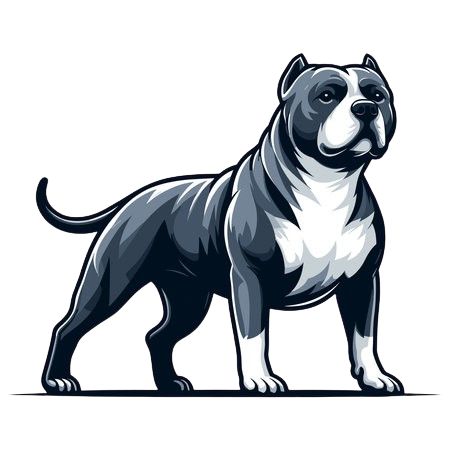
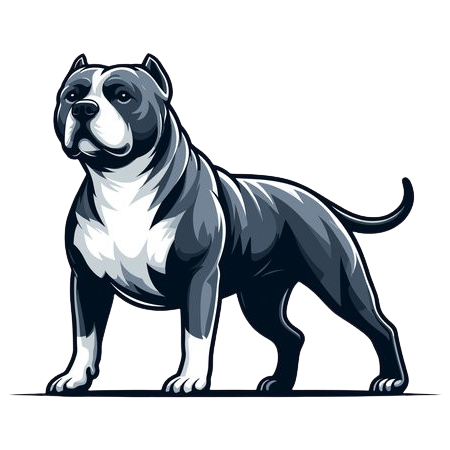
integration image sur les 3 page

diff --git a/Page2.html b/Page2.html
@@ -9,69 +9,120 @@
   </head>
   <body>
     <div>
-        <header>
-            <img src="/Image/Logo/Logo-removebg-preview.png" alt="Logo du site" class="logo" />
-                <h1>Au Cœur de l'American Bully</h1>
-            </header>
+      <header>
+        <img
+          src="/Image/Logo/Logo-removebg-preview.png"
+          alt="Logo du site"
+          class="logo"
+        />
+        <h1>Au Cœur de l'American Bully</h1>
+      </header>
     </div>
     <div>
-            <nav>
-                <ul>
-                     <button><a href="Accueil.html">Accueil</a></button>
-                     <button><a href="/Page1.html">American staff</a></button>
-                     <button><a href="/Page2.html">American bully</a></button>
-                </ul>
-            </nav>
+      <nav>
+        
+          <button><a href="Accueil.html">Accueil</a></button>
+          <button><a href="/Page1.html">American staff</a></button>
+          <button><a href="/Page2.html">American bully</a></button>
+        
+      </nav>
     </div>
 
-<div>
-
+    <div>
       <section class="Histoirebully">
-        <h2>Histoire </h2>
-        <p>Bully , ou American Bully , est né aux États-Unis dans les années 1990. Issu principalement de croisements entre l' American Pit Bull Terrier et l' American Staffordshire Terrier , il a été créé pour un physique plus massif et un tempérament doux. Son développement visait à en faire un chien de compagnie stable et affectueux, se distinguant de ses ancêtres. Aujourd'hui, diverses tailles existantes (Pocket, Standard, XL), reconnues par des clubs spécifiques, mais pas encore par tous les registres majeurs.</p>
+        <h2>Histoire</h2>
+        <p>
+          Bully , ou American Bully , est né aux États-Unis dans les années
+          1990. Issu principalement de croisements entre l' American Pit Bull
+          Terrier et l' American Staffordshire Terrier , il a été créé pour un
+          physique plus massif et un tempérament doux. Son développement visait
+          à en faire un chien de compagnie stable et affectueux, se distinguant
+          de ses ancêtres. Aujourd'hui, diverses tailles existantes (Pocket,
+          Standard, XL), reconnues par des clubs spécifiques, mais pas encore
+          par tous les registres majeurs.
+        </p>
+        <img src="/Image/Bully/Image histoire/images.jpg" alt="histoire2" class="bully1" />
       </section>
     </div>
     <div>
       <section class="standard">
-        <h2>Le Bully Standard </h2>
-        <p>Tous les Bully sont considérés comme “ Standard ” jusqu’à leur un an, âge auquel on les évalue pour les répartir ensuite entre les différentes variétés. Seuls gardent cette appellation après un an les femelles mesurant au garrot de 41 à 48 cm, et les mâles de 43 à 51 cm.</p>
+        <h2>Le Bully Standard</h2>
+        <p>
+          Tous les Bully sont considérés comme “ Standard ” jusqu’à leur un an,
+          âge auquel on les évalue pour les répartir ensuite entre les
+          différentes variétés. Seuls gardent cette appellation après un an les
+          femelles mesurant au garrot de 41 à 48 cm, et les mâles de 43 à 51 cm.
+        </p>
         <p>Poids moyen : Généralement entre 30 et 55 kg .</p>
-    </section>
-</div>
-<div>
+        <img src="/Image/Bully/standard/Capture.PNG" alt="standard1" class="standard1" />
+        <img src="/Image/Bully/standard/Capture2.PNG" alt="standard2" class="standard2" />
+      </section>
+    </div>
+    <div>
       <section class="Classic">
         <h2>Le Bully Classic</h2>
-        <p>Un peu plus léger et affiné que le Standard, le Classic a la même taille, soit de 43 à 51 cm au garrot pour les mâles, et 41 à 48 cm pour les femelles. C’est la variété qui se rapproche le plus du phénotype de l’American Staffordshire Terrier et de l’American Pit Bull Terrier.</p>
+        <p>
+          Un peu plus léger et affiné que le Standard, le Classic a la même
+          taille, soit de 43 à 51 cm au garrot pour les mâles, et 41 à 48 cm
+          pour les femelles. C’est la variété qui se rapproche le plus du
+          phénotype de l’American Staffordshire Terrier et de l’American Pit
+          Bull Terrier.
+        </p>
         <p>Poids moyen : Souvent entre 25 et 45 kg .</p>
-    </section>
-</div>
-<div>
+        <img src="/Image/Bully/classic/Capture.PNG" alt="Classic1" class="Classic1" />
+        <img src="/Image/Bully/classic/Capture2.PNG" alt="Classic2" class="Classic2" />
+      </section>
+    </div>
+    <div>
       <section class="Pocket">
         <h2>Le Bully Pocket</h2>
-        <p>La plus petite variété de Bully, concerne les femelles d’une taille au garrot comprise entre 33 et 40 cm, et les mâles entre 36 et 43 cm.</p>
         <p>
-Poids moyen : Généralement entre 15 et 30 kg .</p>
-    </section>
-</div>
-<div>
+          La plus petite variété de Bully, concerne les femelles d’une taille au
+          garrot comprise entre 33 et 40 cm, et les mâles entre 36 et 43 cm.
+        </p>
+        <p>Poids moyen : Généralement entre 15 et 30 kg .</p>
+        <img src="/Image/Bully//Pocket/Capture.PNG" alt="Pocket1" class="Pocket1" />
+        <img src="/Image/Bully/Pocket/Capture2.PNG" alt="Pocket2" class="Pocket2" />
+      </section>
+    </div>
+    <div>
       <section class="XL">
         <h2>Le Bully XL</h2>
-        <p>La plus grande variété reconnue d’American Bully comprend des femelles mesurant entre 48 et 54 cm et des mâles de 51 à 57 cm.</p>
-        <p>Poids moyen : Fréquemment entre 45 et 70 kg , voire plus pour les mâles les plus imposants.</p>
-    </section>
-</div>
-<div>
+        <p>
+          La plus grande variété reconnue d’American Bully comprend des femelles
+          mesurant entre 48 et 54 cm et des mâles de 51 à 57 cm.
+        </p>
+        <p>
+          Poids moyen : Fréquemment entre 45 et 70 kg , voire plus pour les
+          mâles les plus imposants.
+        </p>
+        <img src="/Image/Bully/XL/Capture.PNG" alt="XL1" class="XL1" />
+        <img src="/Image/Bully/XL/Capture2.PNG" alt="XL2" class="XL2" />
+      </section>
+    </div>
+    <div>
       <section class="XLLetPocket">
         <h2>Les variétés non officielles de Bully</h2>
-        <p>En plus des 4 variétés déclarées de la race, il existe des chiens au volume réduit appelé “ Micro Bully ”, ainsi que des plus grands, les “ Bully XXL ”, et même un type “ Extrême ”. Aucune organisation canine ne les reconnaît, considérant qu’il y a eu suffisamment de mutations génétiques et d’exagérations des traits morphologiques sur cette race.</p>
-        <p>Poids moyen : Très variable, les Micro Bully sont généralement en dessous de 15 kg , tandis que les Bully XXL peuvent dépasser les 70 kg .</p>
-    </section>
-</div>
-<div>
-    <footer>
-      <p>&copy; 2023 Mon Site Web. Tous droits réservés.</p>
-    </footer>
-</div>
-</body>
+        <p>
+          En plus des 4 variétés déclarées de la race, il existe des chiens au
+          volume réduit appelé “ Micro Bully ”, ainsi que des plus grands, les “
+          Bully XXL ”, et même un type “ Extrême ”. Aucune organisation canine
+          ne les reconnaît, considérant qu’il y a eu suffisamment de mutations
+          génétiques et d’exagérations des traits morphologiques sur cette race.
+        </p>
+        <p>
+          Poids moyen : Très variable, les Micro Bully sont généralement en
+          dessous de 15 kg , tandis que les Bully XXL peuvent dépasser les 70 kg
+          .
+        </p>
+        <img src="/Image/Bully/Micro/1733138711482.jpg" alt="mix1" class="mix1" />
+        <img src="/Image/Bully/xxl/Capture.PNG" alt="mix2" class="mix2" />
+      </section>
+    </div>
+    <div>
+      <footer>
+        <p>&copy; 2023 Mon Site Web. Tous droits réservés.</p>
+      </footer>
+    </div>
+  </body>
 </html>
-

diff --git a/Page1.html b/Page1.html
@@ -16,11 +16,11 @@
            </div>
     <div>
                 <nav>
-                <ul>
+               
                      <button><a href="Accueil.html">Accueil</a></button>
                      <button><a href="/Page1.html">American staff</a></button>
                      <button><a href="/Page2.html">American bully</a></button>
-                </ul>
+                
             </nav>
     </div>
 
@@ -35,6 +35,7 @@ Lorsque ces chiens sont arrivés aux États-Unis avec les immigrants, les éleve
 En 1936, l'American Kennel Club (AKC) a reconnu la race sous le nom de "Staffordshire Terrier", marquant un tournant vers une reconnaissance en tant que race de compagnie et de travail. Pour le distinguer du Staffordshire Bull Terrier britannique, l'AKC a ajouté le préfixe "American" en 1972, donnant naissance à l' American Staffordshire Terrier . Aujourd'hui, l'AmStaff est apprécié pour sa loyauté, son intelligence et son tempérament équilibré, bien loin de son passé de combattant.
 
 À travers ce mini-site, mon objectif est de partager mon expérience et d'offrir des informations claires et précises sur leur histoire, leurs caractéristiques, et surtout, les différences essentielles qui les distinguent du Staffordshire Bull Terrier ou du Pitbull, souvent confondues. Je souhaite également mettre en lumière les nuances entre les différentes tailles de Bully. C'est ma façon de contribuer à une meilleure compréhension et de rendre justice à ces chiens extraordinaires.</p>
+<img src="/Image/Staf/American staff/colbys-primo.jpg.webp" alt="histoire2" class="staf" />
       </section>
     </div>
     <div>
@@ -82,21 +83,23 @@ En 1936, l'American Kennel Club (AKC) a reconnu la race sous le nom de "Stafford
       <section class="Pitbull">
     <h2>American Staff vs. Pitbull : La Grande Différence en France</h2>
     <p>La distinction entre l'<strong>American Staffordshire Terrier (AmStaff)</strong> et le <strong>Pitbull</strong> est souvent source de confusion, surtout en France à cause de la loi.</p>
-
+    
     <p>En réalité, l'<strong>AmStaff</strong> est une <strong>race reconnue</strong> avec un pedigree LOF (Livre des Origines Français). Le terme <strong>"Pitbull"</strong>, lui, ne désigne pas une race officielle, mais plutôt un <strong>type de chien</strong> qui ressemble à l'AmStaff mais <strong>sans LOF</strong>.</p>
-
+    
     <p>En France, cette distinction est cruciale : un AmStaff LOF est en <strong>2<sup>e</sup> catégorie</strong> (chien de garde et de défense), tandis qu'un "Pitbull" (non-LOF) est classé en <strong>1<sup>e</sup> catégorie</strong> (chien d'attaque), avec des règles de détention beaucoup plus strictes et des interdictions d'acquisition.</p>
+    <img src="/Image/Staf/Pit staf/1733138711482.webp" alt="pitbull_staf" class="pit" />
 </section>
 </div>
 
  <div>
-      <section class="Staffie">
+      <section class="amstaffvsstaffie">
     <h2>AmStaff vs. Staffie : Deux Races, Deux Statuts</h2>
     <p>La confusion est courante entre l'<strong>American Staffordshire Terrier (AmStaff)</strong> et le <strong>Staffordshire Bull Terrier (Staffie)</strong>, pourtant ce sont deux races distinctes issues d'ancêtres communs britanniques.</p>
 
     <p>Le <strong>Staffie</strong> est la race anglaise originelle, plus petite et trapue, reconnue pour sa douceur, notamment avec les enfants. L'<strong>AmStaff</strong>, lui, a été développé aux États-Unis pour être plus grand et puissant.</p>
 
     <p>La différence clé en France est leur <strong>catégorisation légale</strong> : l'<strong>AmStaff (LOF)</strong> est en <strong>2<sup>e</sup> catégorie</strong>, tandis que le <strong>Staffie (LOF)</strong> <strong>n'est pas catégorisé</strong>, impliquant des obligations très différentes pour les propriétaires.</p>
+    <img src="/Image/Staf/staffi staf/ETPKkgHWoAQLGjx.webp" alt="staffie" class="staffie" />
 </section>
 </div>
 

diff --git a/Accueil.html b/Accueil.html
@@ -15,12 +15,10 @@
     </div>
 </header>
     <div>
-            <nav>
-                <ul>
+            <nav>    
                      <button><a href="Accueil.html">Accueil</a></button>
                      <button><a href="/Page1.html">American staff</a></button>
-                     <button><a href="/Page2.html">American bully</a></button>
-                </ul>
+                     <button><a href="/Page2.html">American bully</a></button>               
             </nav>
     </div>
 
@@ -31,6 +29,8 @@
         <p>Mon envie de créer ce site est née d'une passion profonde pour l' American Staffordshire Terrier et le Bully . Je me suis rendu compte qu'il y a beaucoup d'idées reçues et de désinformation autour de ces courses magnifiques.
 
 À travers ce mini-site, mon objectif est de partager mon expérience et d'offrir des informations claires et précises sur leur histoire, leurs caractéristiques, et surtout, les différences essentielles qui les distinguent du Staffordshire Bull Terrier ou du Pitbull, souvent confondues. Je souhaite également mettre en lumière les nuances entre les différentes tailles de Bully. C'est ma façon de contribuer à une meilleure compréhension et de rendre justice à ces chiens extraordinaires.</p>
+<img src="/Image/Staf/dessin/images-removebg-preview.png" alt="histoire1" class="accueil1" />
+<img src="/Image/Bully/dessin/227870669-pitbull-bulldog-corps-complet-conception-illustration-portrait-complet-d-un-animal-debout-animal-removebg-preview.png" alt="histoire2" class="accueil2" />
       </section>
     </div>
     <div>
